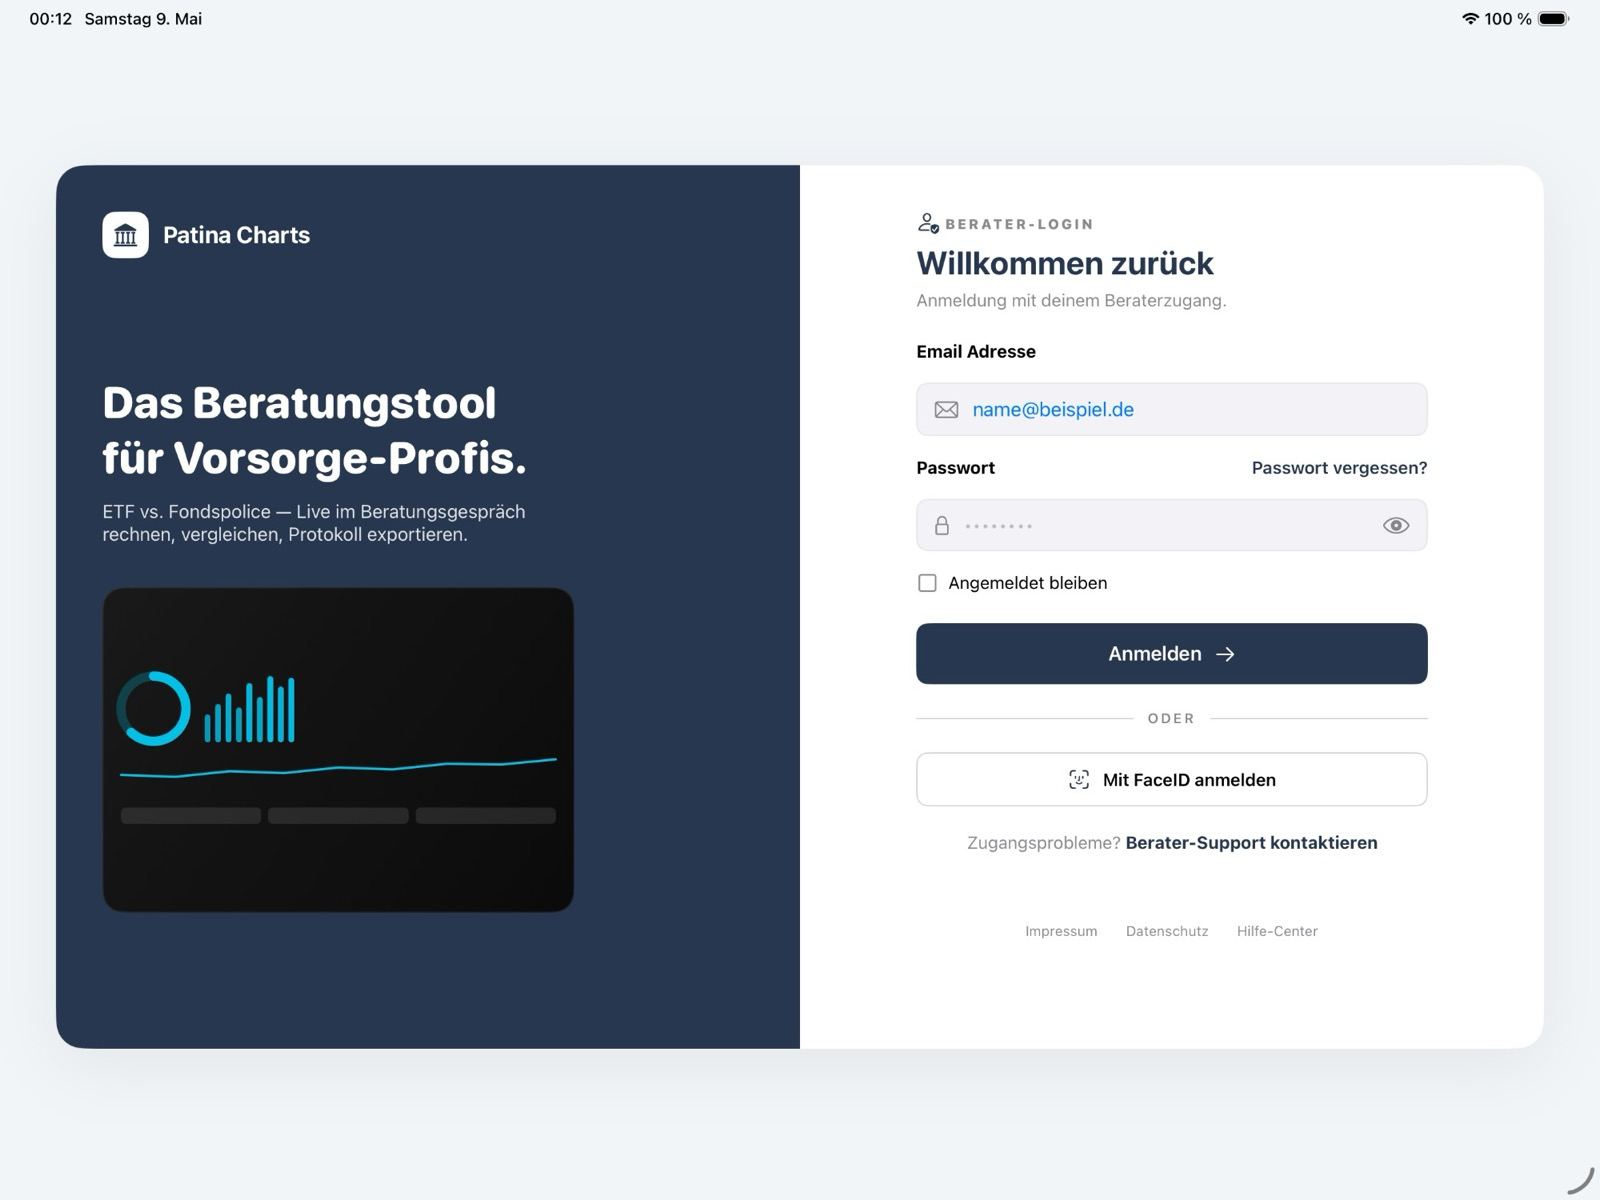
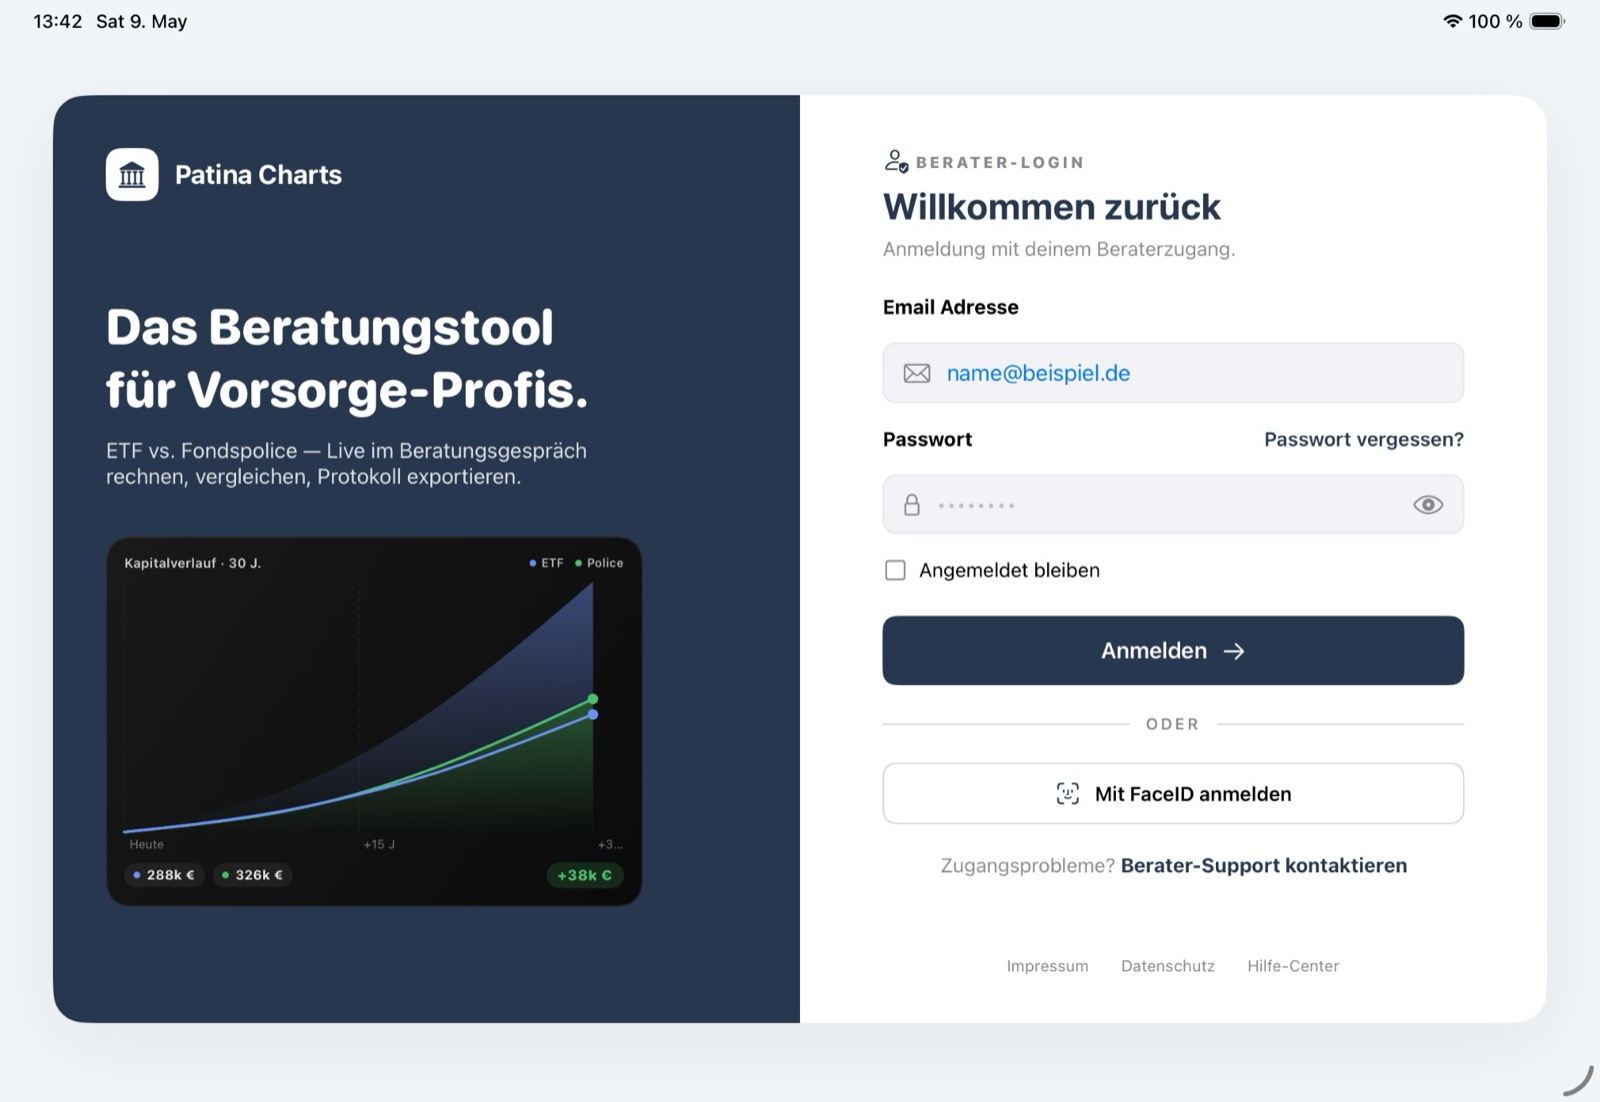
Login-Screenshot mit echtem Vergleichs-Chart
Jetzt mit der ComparisonTab-Optik (ETF vs. Police, beide Curves,
Police-Win +38k €) statt dem alten Cyan-Donut-Mockup. Ratio im CSS
auf 1600×1102 justiert damit nichts beschnitten wird. Alt-Text
erweitert für SEO + Accessibility.

diff --git a/assets/css/style.scss b/assets/css/style.scss
@@ -161,7 +161,7 @@ body.hero-ready .hero-anim { opacity: 1; transform: none; }
   background: #FAF7F1;
   width: 100%;
   display: block;
-  aspect-ratio: 1366 / 1024;
+  aspect-ratio: 1600 / 1102;
   box-shadow: inset 0 0 0 1px rgba(0, 0, 0, 0.06);
 }
 

diff --git a/index.md b/index.md
@@ -26,7 +26,7 @@ layout: default
 <section class="device-section">
   <div class="device-mockup float-in">
     <div class="device-screen">
-      <img src="{{ '/assets/screenshots/login.jpg' | relative_url }}" alt="Patina Charts Login-Ansicht auf dem iPad" loading="lazy" width="1600" height="1200">
+      <img src="{{ '/assets/screenshots/login.jpg' | relative_url }}" alt="Patina Charts Login-Ansicht auf dem iPad mit Live-Vergleichs-Chart ETF gegen Fondspolice" loading="lazy" width="1600" height="1102">
     </div>
   </div>
 </section>